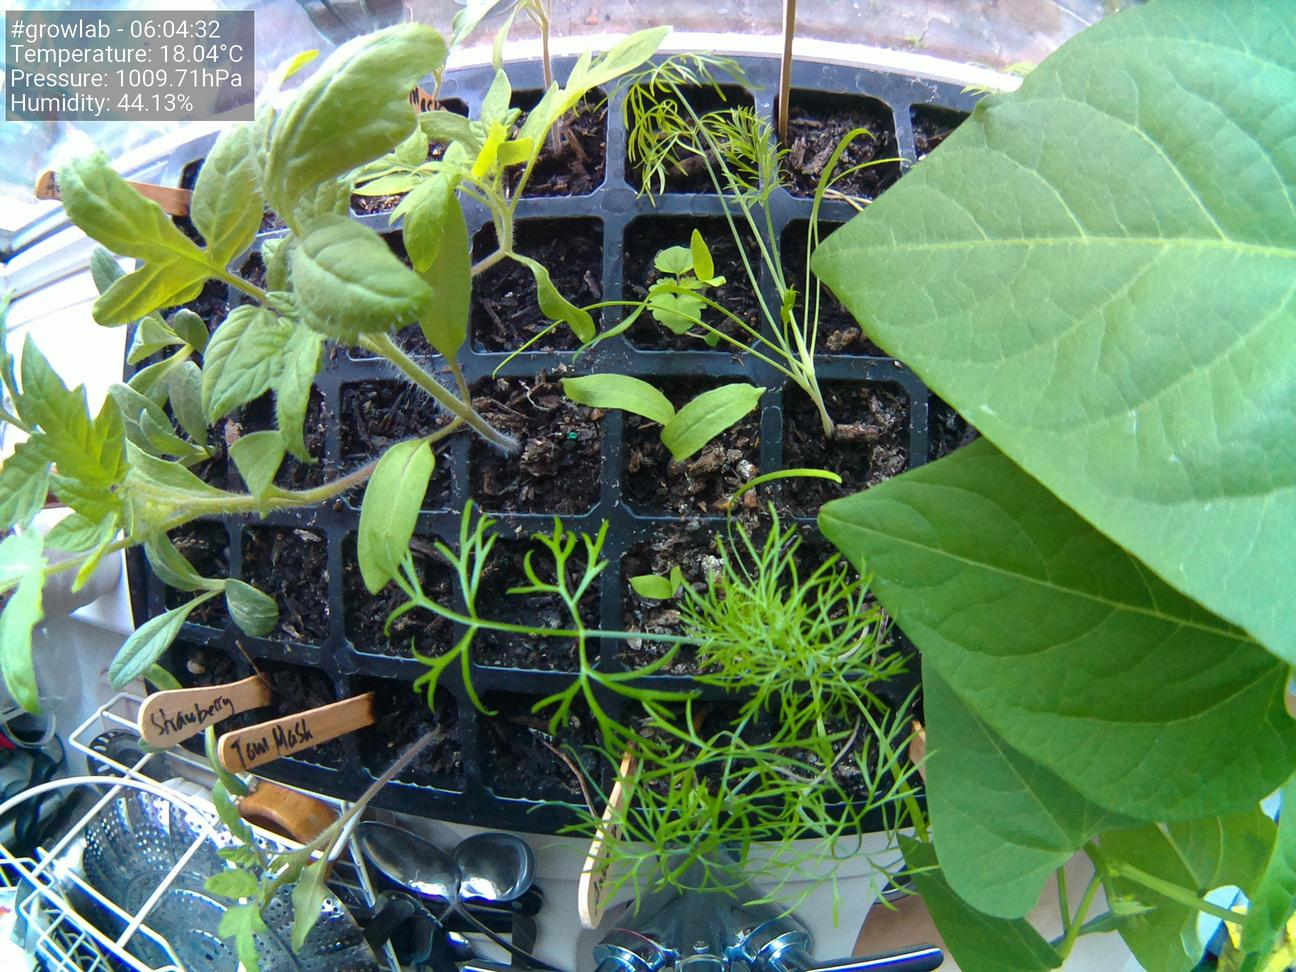
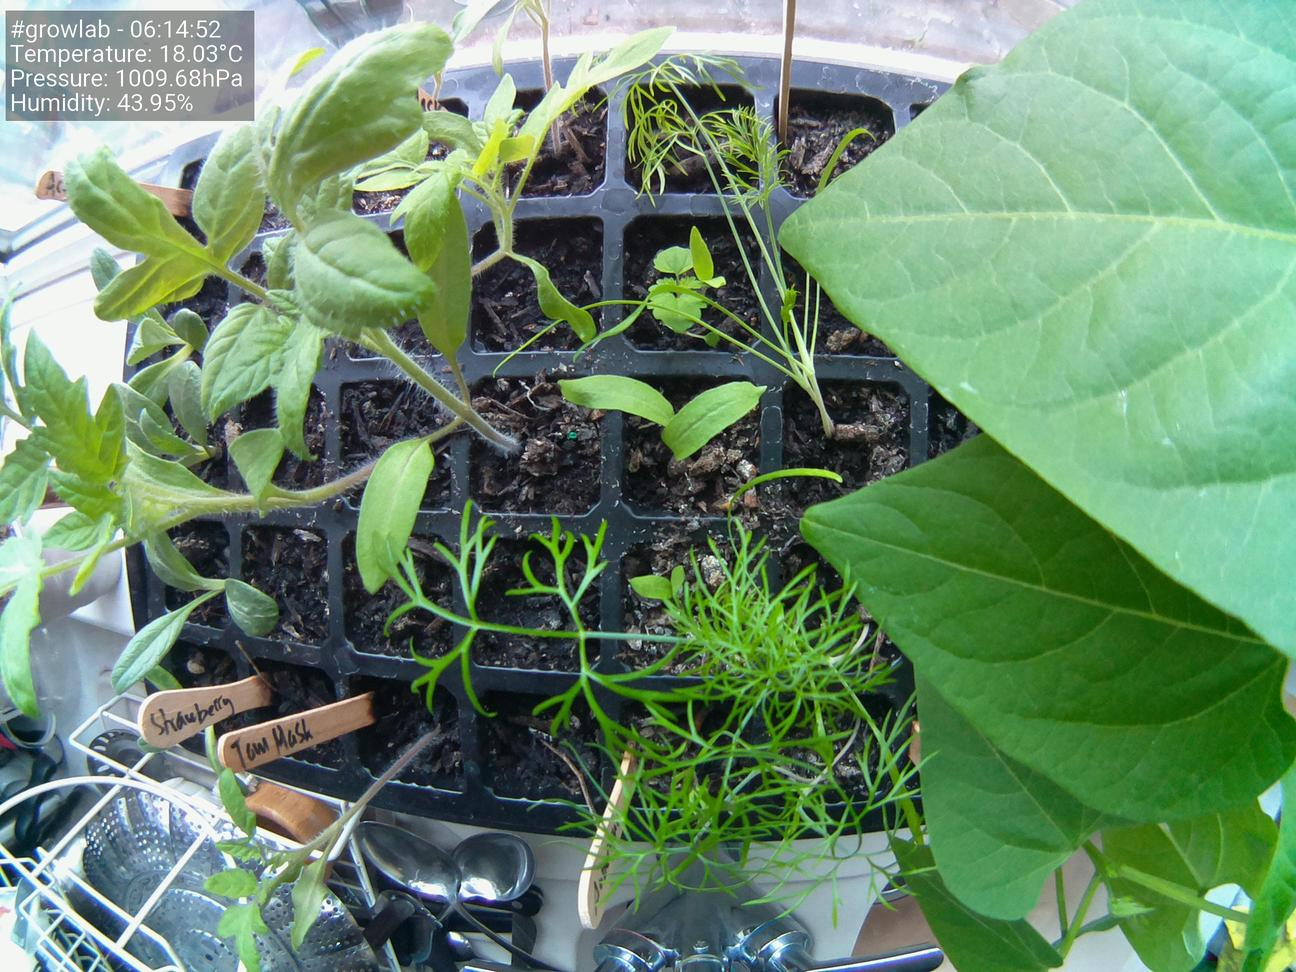
Update images at Thu 29 Apr 06:15:03 BST 2021

diff --git a/docs/index.html b/docs/index.html
@@ -38,19 +38,19 @@
                     <tbody>
                         <tr>
                             <td>Time</td>
-                            <td>06:04:32</td>
+                            <td>06:14:52</td>
                         </tr>
                         <tr>
                             <td>Temperature</td>
-                            <td>18.04°C</td>
+                            <td>18.03°C</td>
                         </tr>
                         <tr>
                             <td>Humidity</td>
-                            <td>44.13%</td>
+                            <td>43.95%</td>
                         </tr>
                         <tr>
                             <td>Pressure</td>
-                            <td>1009.71hPa</td>
+                            <td>1009.68hPa</td>
                         </tr>
                     </tbody>
                 </table>
@@ -58,7 +58,7 @@
 
                 <h5>Latest image</h5>
 		<div style="width: 85%;">
-	                <img class="figure-img img-fluid rounded" src="./preview.jpg?uid=1619672683.804233">
+	                <img class="figure-img img-fluid rounded" src="./preview.jpg?uid=1619673303.5096626">
 		</div>
             </div>
         </div>
